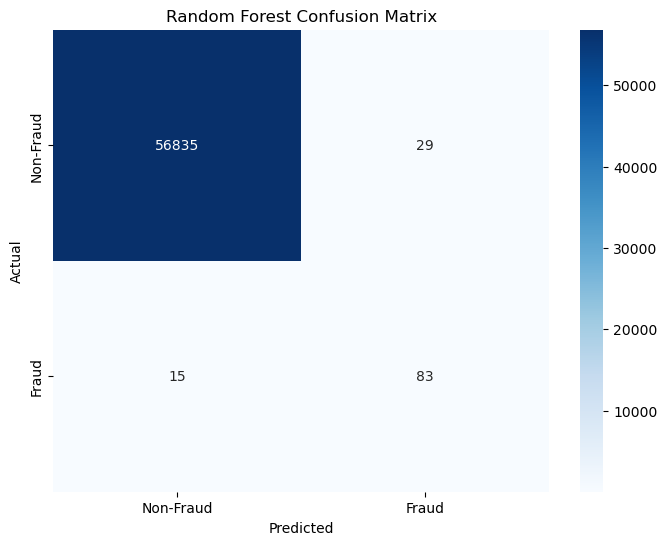
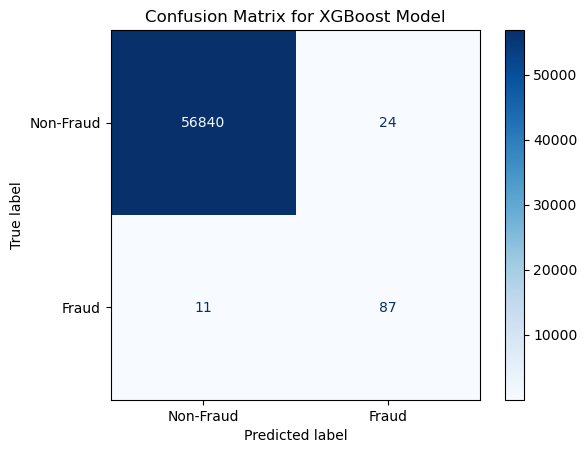
updated graphics and content for fraud detection project

diff --git a/_projects/fraud_detection_summary.md b/_projects/fraud_detection_summary.md
@@ -70,16 +70,16 @@ In this project, we developed a robust fraud detection model to identify fraudul
   - Identified key patterns differentiating fraudulent from non-fraudulent transactions.
 
 - **Model Selection and Hyperparameter Tuning**:
-  - Evaluated Logistic Regression, Random Forest, Gradient Boosting, and XGBoost models.
-  - Performed hyperparameter tuning with GridSearchCV, optimizing for the ROC AUC score.
+  - Evaluated basic Logistic Regression, Random Forest, Gradient Boosting, and XGBoost models.
+  - Performed hyperparameter tuning with GridSearchCV on Random Forest and XGBoost models, optimizing for average precision.
 
 - **Model Performance Evaluation**:
-  - Compared models using metrics such as ROC AUC, precision-recall curves, and F1-score.
-  - Selected **Random Forest** as the final model due to its superior balance of precision and recall, achieving an excellent AUC of 0.98 and the best F1 score. This choice ensures the model's high accuracy and reliability in detecting fraudulent transactions.
+  - Compared models using metrics such as Precision-Recall AUC, ROC AUC, and F1-score.
+  - Selected **XGBoost** as the final model due to its superior balance of precision and recall, achieving a Precision-Recall AUC of 0.89 and the best F1 score among tuned models. This choice ensures the model's high accuracy and reliability in detecting fraudulent transactions.
 
 ### Practical Implications
 
-- **High Accuracy and Reliability**: The Random Forest model is highly effective in detecting fraudulent transactions, ensuring genuine transactions are processed smoothly.
+- **High Accuracy and Reliability**: The XGBoost classifier is highly effective in detecting fraudulent transactions, ensuring genuine transactions are processed smoothly.
 - **Customer Confidence**: Provides a reliable system, minimizing interruptions to legitimate transactions.
 - **Continuous Improvement**: Emphasizes ongoing monitoring and enhancement to adapt to new fraud patterns.
 
@@ -107,16 +107,16 @@ In this project, we developed a robust fraud detection model to identify fraudul
     </div>
 </div>
 
-### Model Performance
+### Tuned Model Performance
 
 <div class="row">
     <div class="col-sm-6 mt-3 mt-md-0">
         {% include figure.liquid loading="eager" path="../assets/img/fraud_detection/precisionRecall.png" title="Precision-Recall Curves" class="img-fluid rounded z-depth-1" %}
-        <div class="caption"><strong>Precision-Recall Curves:</strong> Demonstrates the model's ability to balance precision and recall, with Random Forest and XGBoost narrowly performing the best after tuning.</div>
+        <div class="caption"><strong>Precision-Recall Curves:</strong> Demonstrates the model's ability to balance precision and recall, with XGBoost performing the best after tuning.</div>
     </div>
     <div class="col-sm-6 mt-3 mt-md-0">
         {% include figure.liquid loading="eager" path="../assets/img/fraud_detection/roc.png" title="ROC Curves" class="img-fluid rounded z-depth-1" %}
-        <div class="caption"><strong>ROC Curves:</strong> Shows the performance of each model in distinguishing between fraudulent and non-fraudulent transactions, with Random Forest and XGBoost achieving the highest AUC.</div>
+        <div class="caption"><strong>ROC Curves:</strong> Shows the performance of each model in distinguishing between fraudulent and non-fraudulent transactions, with XGBoost achieving the highest AUC.</div>
     </div>
 </div>
 
@@ -129,6 +129,7 @@ In this project, we developed a robust fraud detection model to identify fraudul
             <th>Training Time (s)</th>
             <th>ROC AUC</th>
             <th>Average Precision</th>
+            <th>PRC AUC</th>
             <th>Precision</th>
             <th>Recall</th>
             <th>F1-score</th>
@@ -136,53 +137,33 @@ In this project, we developed a robust fraud detection model to identify fraudul
     </thead>
     <tbody>
         <tr>
-            <td>Logistic Regression</td>
-            <td>3.49</td>
-            <td>0.97</td>
-            <td>0.72</td>
-            <td>0.06</td>
-            <td>0.92</td>
-            <td>0.11</td>
-        </tr>
-        <tr>
             <td>Random Forest</td>
-            <td>225.78</td>
-            <td>0.98</td>
-            <td>0.87</td>
-            <td>0.87</td>
-            <td>0.84</td>
+            <td>488.24</td>
+            <td>0.97</td>
+            <td>0.86</td>
+            <td>0.86</td>
+            <td>0.73</td>
             <td>0.85</td>
-        </tr>
-        <tr>
-            <td>Gradient Boosting</td>
-            <td>414.15</td>
-            <td>0.96</td>
-            <td>0.77</td>
-            <td>0.10</td>
-            <td>0.91</td>
-            <td>0.18</td>
+            <td>0.79</td>
         </tr>
         <tr>
             <td>XGBoost</td>
-            <td>1.99</td>
+            <td>3.72</td>
             <td>0.98</td>
-            <td>0.84</td>
-            <td>0.69</td>
+            <td>0.89</td>
+            <td>0.89</td>
+            <td>0.78</td>
             <td>0.88</td>
-            <td>0.77</td>
+            <td>0.83</td>
         </tr>
     </tbody>
 </table>
 
-### Final Model: Random Forest
+### Final Model: XGBoost
 
-Random Forest was chosen as the final model due to its superior performance across multiple evaluation metrics. It achieved the highest balance of precision and recall, with an excellent AUC of 0.98, indicating its strong ability to distinguish between fraudulent and non-fraudulent transactions. Additionally, the Random Forest model had the best F1 score, reflecting its effectiveness in correctly identifying both fraudulent transactions (high recall) and minimizing false positives (high precision).
+XGBoost was chosen as the final model due to its superior performance across all evaluation metrics. It achieved the highest balance of precision and recall, with an excellent Precision-Recall AUC of 0.89, indicating its strong ability to distinguish between fraudulent and non-fraudulent transactions. Additionally, the XGBoost classifier had the best F1 score, reflecting its effectiveness in correctly identifying both fraudulent transactions (high recall) and minimizing false positives (high precision).
 
 <div class="row">
-    <div class="col-sm-6 mt-3 mt-md-0">
-        {% include figure.liquid loading="eager" path="../assets/img/fraud_detection/featureImportance.png" title="Feature Importance" class="img-fluid rounded z-depth-1" %}
-        <div class="caption"><strong>Feature Importance:</strong> Shows the most important features used by the Random Forest model.</div>
-    </div>
     <div class="col-sm-6 mt-3 mt-md-0">
         {% include figure.liquid loading="eager" path="../assets/img/fraud_detection/confusionMatrix.png" title="Random Forest Confusion Matrix" class="img-fluid rounded z-depth-1" %}
         <div class="caption"><strong>Confusion Matrix:</strong> The Random Forest model effectively minimizes false positives and false negatives while capturing many fraudulent transactions.</div>

diff --git a/_pages/cv.md b/_pages/cv.md
@@ -8,32 +8,3 @@ description: This page provides a detailed overview of my professional experienc
 toc:
   sidebar: left
 ---
-<style>
-    /* Override global table styles */
-    .custom-table {
-        width: 100%;
-        border-collapse: collapse;
-        margin-bottom: 20px;
-    }
-
-    .custom-table th,
-    .custom-table td {
-        border: none;
-        text-align: left;
-        padding: 8px;
-    }
-
-    .custom-table th {
-        background-color: none;
-        color: none;
-    }
-
-    .custom-table tr:nth-child(even),
-    .custom-table tr:nth-child(odd) {
-        background-color: none;
-    }
-
-    .custom-table td {
-        color: none;
-    }
-</style>
